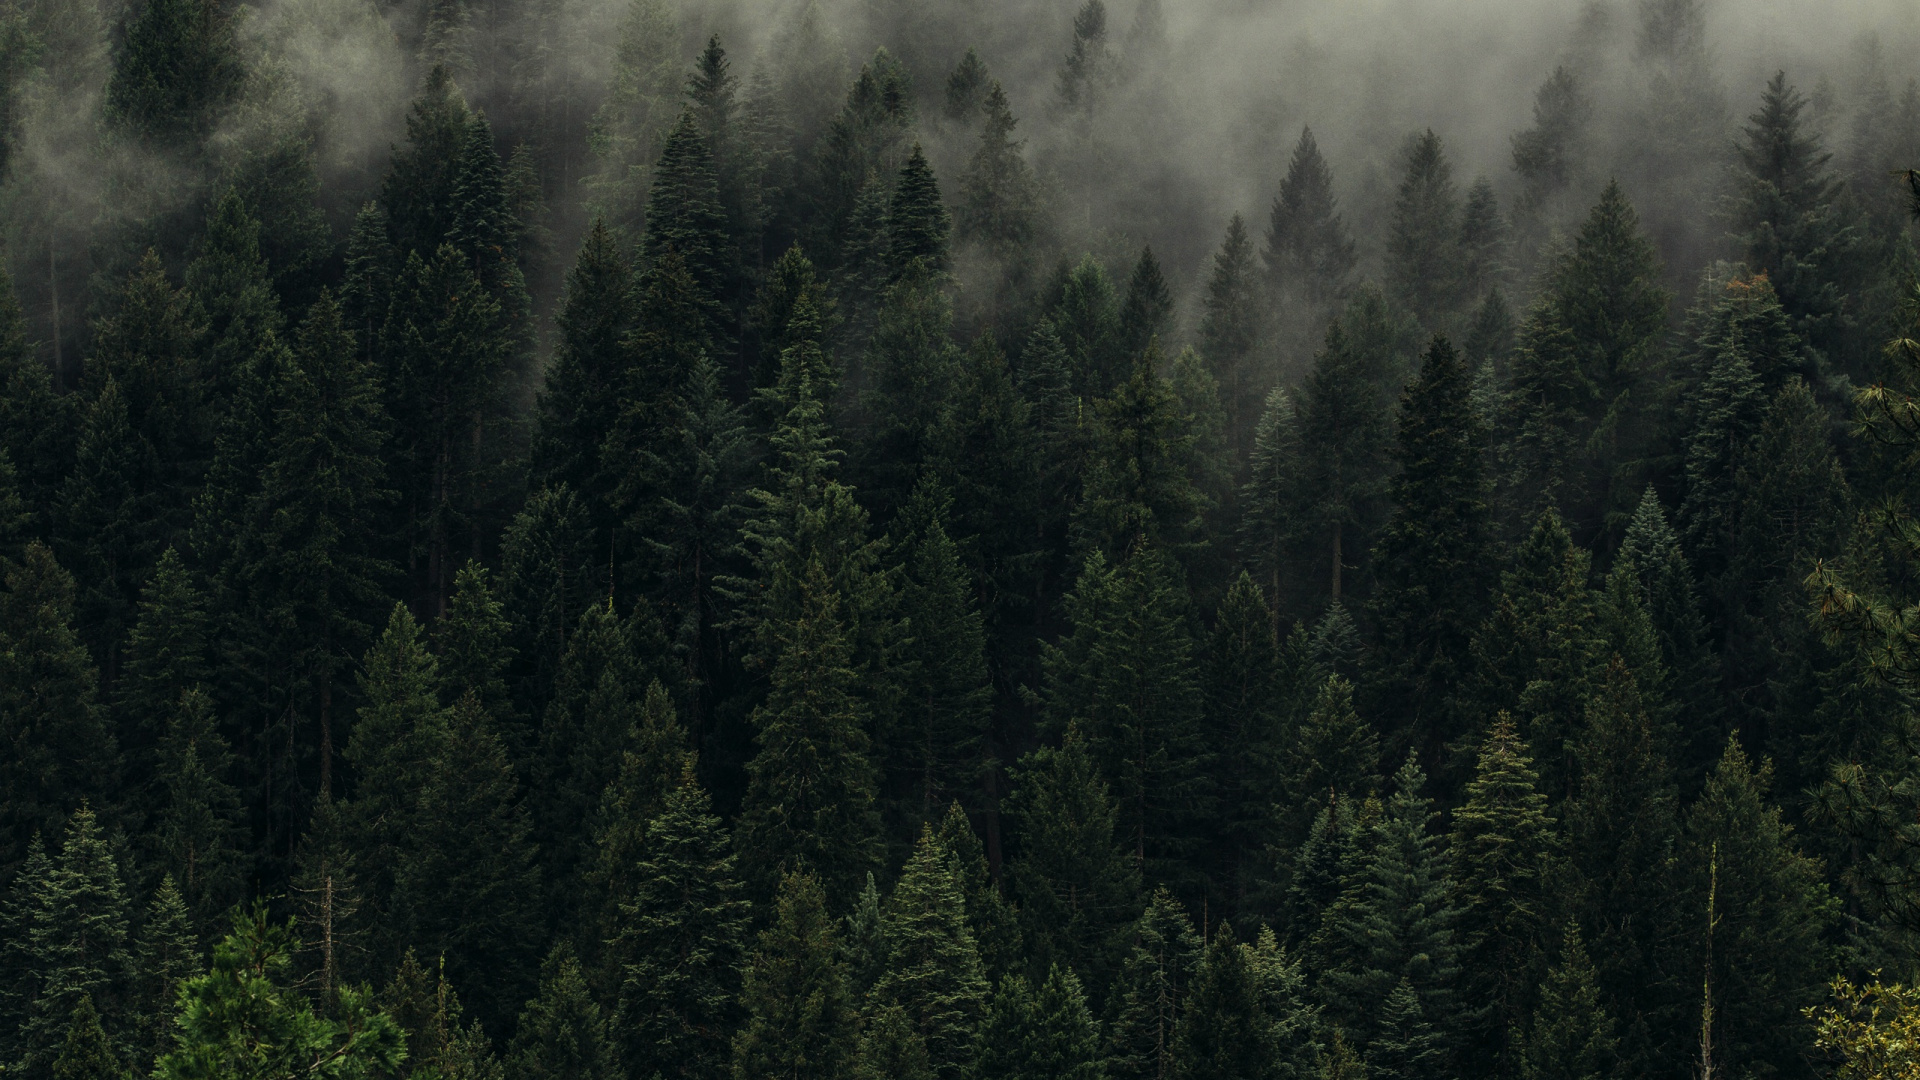
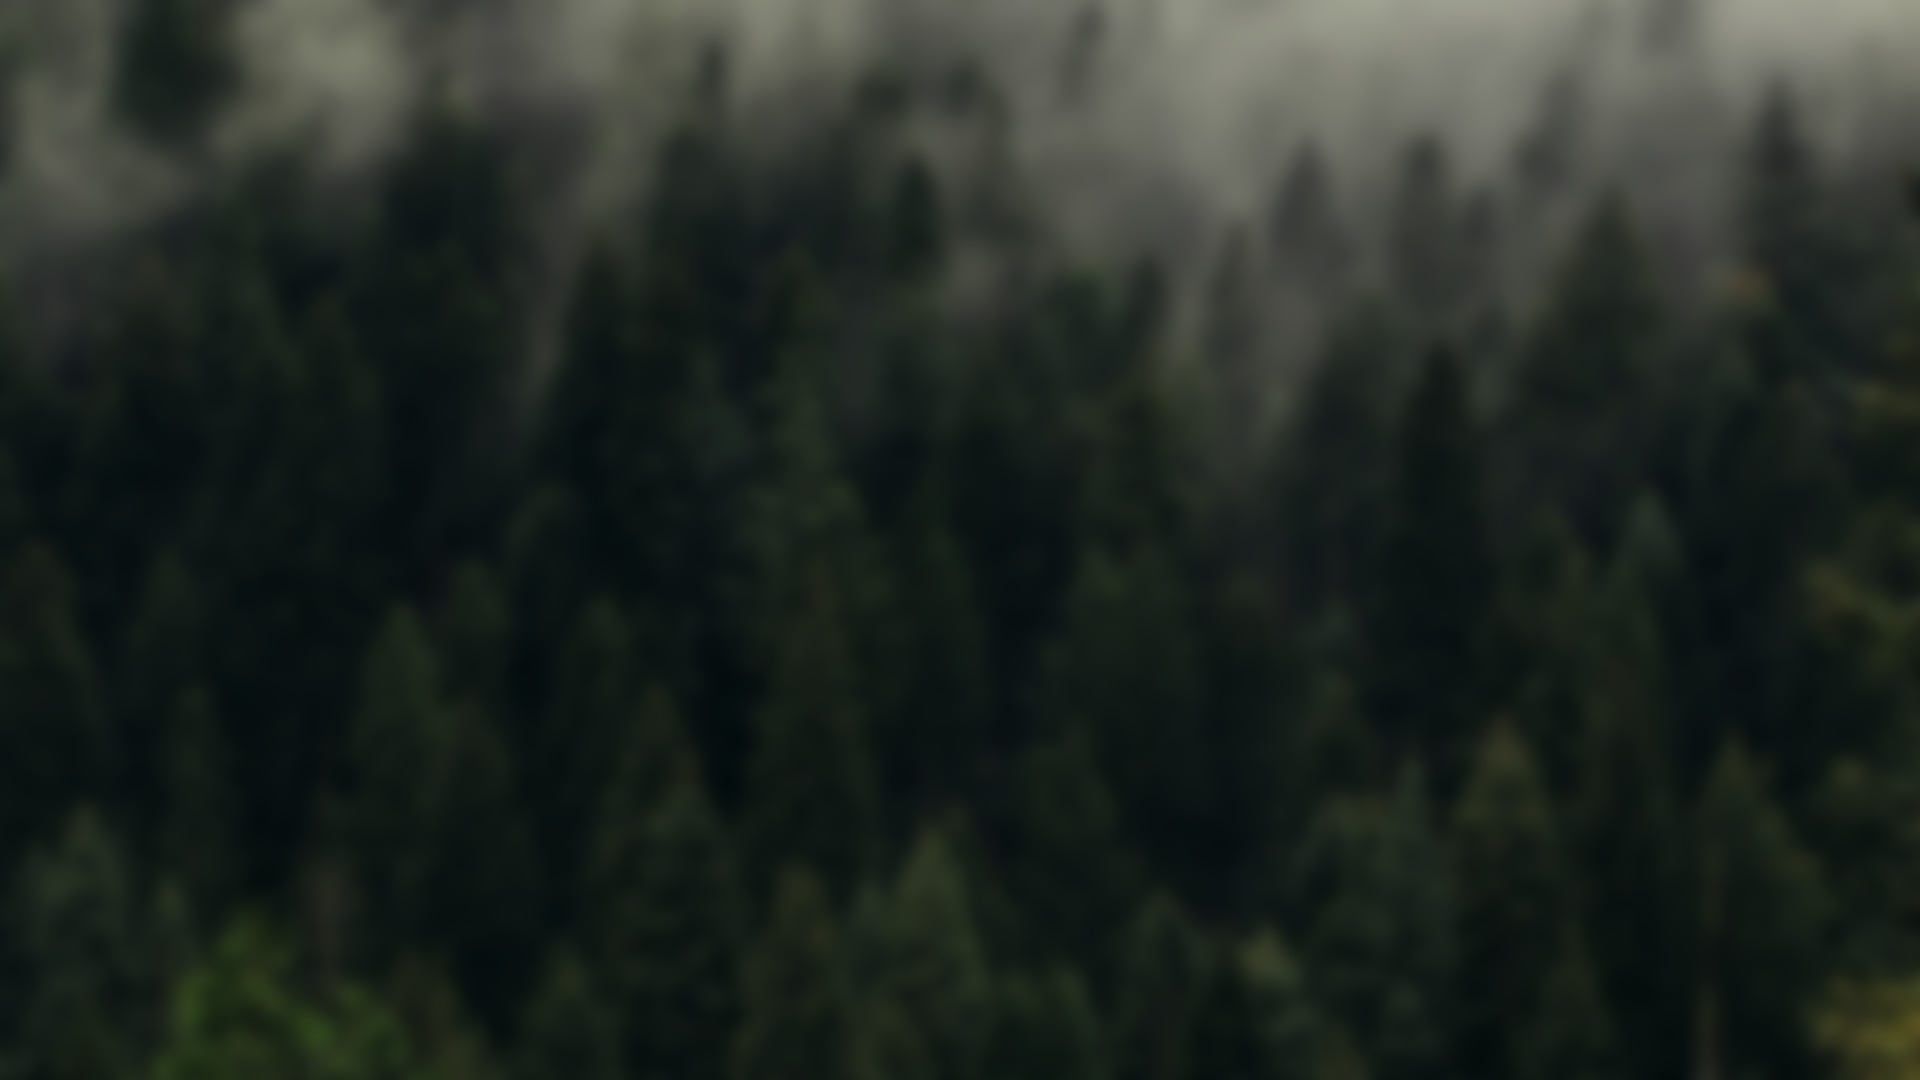
remove blur

diff --git a/src/style/_var.scss b/src/style/_var.scss
@@ -8,13 +8,12 @@ $gold: #ffd347;
   overflow: hidden;
   background-color: #2e3f33;
   background: radial-gradient(at right top, rgba(65,88,72, 1) 0%, rgba(55,73,59,1) 18%, rgba(36,54,40,1) 38%, rgba(22,36,27,1) 62%, rgba(9,13,10,1) 100%);
-  backdrop-filter: blur(40px);
 }
 
 @mixin CardValue {
   border-radius: 10px;
   padding: 15px;
   background-color: #7777776c;
-  backdrop-filter: blur(10px);
+  position: relative;
   box-shadow: 0px 0px 20px #0000008f;
 }

diff --git a/src/pages/Home.vue b/src/pages/Home.vue
@@ -79,7 +79,6 @@ const getWeatherInfo = async () => {
     width: 100%;
     min-height: 100vh;
     background-color: #ffffff07;
-    backdrop-filter: blur(10px);
   }
 
   &__inner {
@@ -89,7 +88,6 @@ const getWeatherInfo = async () => {
     width: 100%;
     height: minmax(550px, 600px);
     border-radius: 20px;
-    backdrop-filter: blur(20px);
     padding: 20px;
     display: grid;
     grid-template-columns: repeat(14, 1fr);
